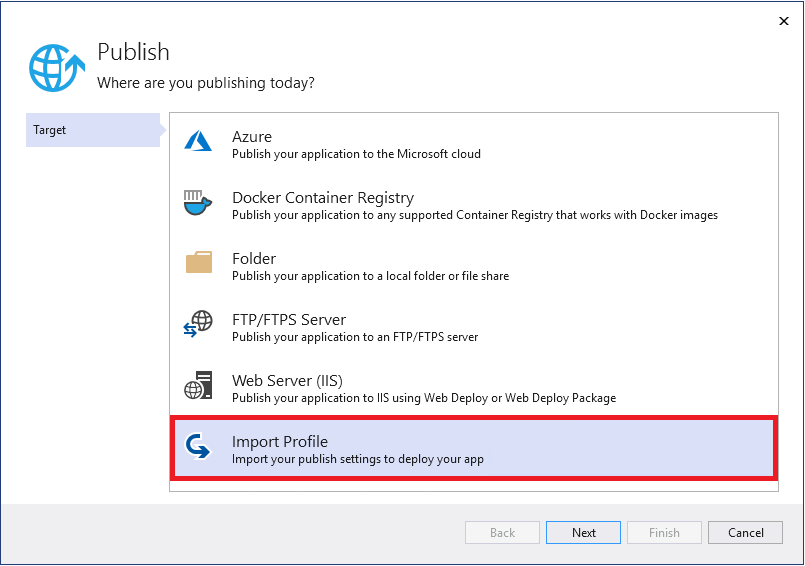
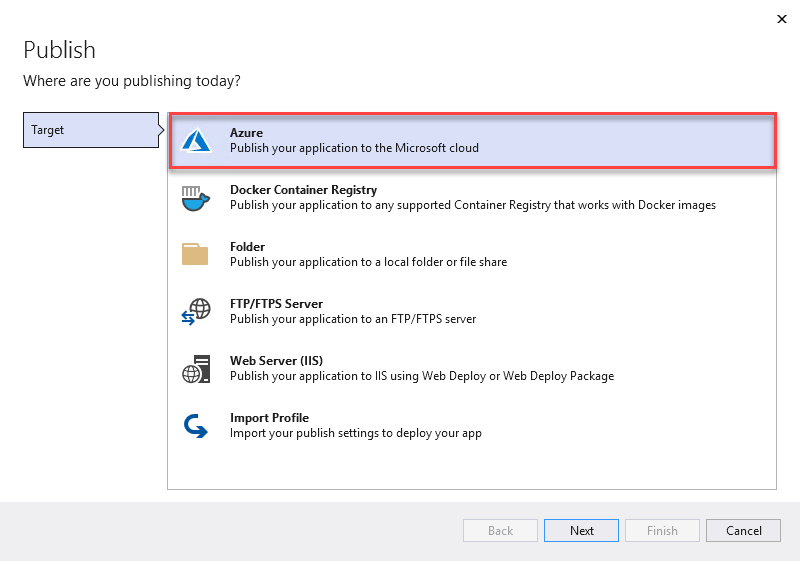
App Service deployment steps. Updated ARM template.

diff --git a/Hands-on lab/HOL step-by-step - Migrating Oracle to PostgreSQL.md b/Hands-on lab/HOL step-by-step - Migrating Oracle to PostgreSQL.md
@@ -947,52 +947,47 @@ With PostgreSQL, stored procedures cannot return output values without a cursor.
 
 ### Task 8: Deploy the application to Azure
 
-The built application will be deployed to IIS. The existing publishing profile should be used.
+As part of the PoC, the finished app will be hosted on Azure App Service. In this task, you will add a connection string to the App Service resource and use Visual Studio 2019 to complete the deployment.
 
-1. Devart's dotConnect has licensing agreements that must be met before deployment.
+1. In the Azure portal, navigate to your App Service instance. Navigate to **Configuration** below **Settings**.
 
-    - Select **License Information...** under **Tools > PostgreSQL**. The following wizard will open.
-    - Select **Fix**.
+2. Below **Connection strings**, select **+ New connection string**. In the **Add/Edit connection string** window, provide the following:
 
-    ![Screenshot showing the licensing wizard.](./media/licensing-wizard.PNG "Licensing wizard")
+    - **Name**: Use `PostgreSqlConnectionString`
+    - **Value**: Use the connection string from the `appsettings.json` file
+    - **Type**: Select `Custom` (with ASP.NET Core, it is not possible to use the `PostgreSQL` connection string type)
 
-2. Select **Next >** until you reach **Execute**. A **licenses.licx** file will be created, which contains information about **Devart.Data.PostgreSql**,**PgSqlConnection.dll**, and **Devart.Data.PostgreSql.dll**.
+    ![Adding a PostgreSQL connection string to the App Service configuration page.](./media/add-new-connection-string.png "PostgreSQL connection string in App Service")
 
-    ![Screenshot showing the execution licensing info.](./media/execute-licensing-info.PNG "Execute licensing info")
+3. Select **OK** and then select **Save**.
+   
+4. In Visual Studio's Solution Explorer, right-click the **NorthwindMVC** project (not the solution) and select **Publish...**.
 
-3. Select the option to **Rebuild Application** and then select **Finish**.
+5. The **Publish** window should open. Select **Azure**. Select **Next**.
 
-    ![Screenshot showing recompiling the build.](./media/recompile-build.PNG "Recompiling the build")
+    ![Screenshot showing the publishing window.](./media/publish-window.png "Selecting Azure in publishing window")
 
-4. If you relaunch the wizard, another fix will have to be done. **dotConnect** must know the applications and libraries reference its DLLs. Again, select **Fix**.
+6. Select **Azure App Service (Linux)**. Select **Next**.
 
-    ![Screenshot showing how to fix licensing.](./media/fix-2-licensing.PNG "Fix licensing")
+7. In the **Publish** window, select your **Subscription name**. Expand the correct resource group and select the App Service resource. Select **Next**.
 
-5. At the **Specify which executables are allowed to use the class library** dialog, select the **Add** button and then select *NorthwindMVC.dll* and *w3wp.exe* executable options. The IIS worker process will allow requests to be served. A new file titled licenses.config will be created with these details. Select **Next >**.
+    ![Selecting the correct App Service instance in the Visual Studio Publish window.](./media/app-service-in-publish-window.png "App Service instance in the Publish window")
 
-    ![Screenshot showing choosing the right executables.](./media/dll-and-exe.PNG "Specify which executables")
+8. Select **Publish (generates pubxml file)** for the **Deployment type** tab. Select **Finish**.
 
-6. Again, select **Execute** and rebuild the service.
+    ![Generating a publish profile for the Visual Studio App Service deployment.](./media/pubxml-deployment-type.png "Generating a publish profile")
 
-7. In Visual Studio's Solution Explorer, right-click the **NorthwindMVC** project (not the solution) and select **Publish...**.
+9. Select **Publish** next to the new publish profile.
 
-8. The **Publish** window should open. Select **Import Profile**. Select **Next**.
+10. First, your application will build. Then, all relevant files will be copied into a ZIP archive for deployment.
 
-    ![Screenshot showing the publishing window.](./media/publish-window.png "selecting import profile in publishing window")
-
-9. Select **Browse** to locate the **Publish settings file**. Select your publish profile from `C:\handsonlab\MCW-Migrating-Oracle-to-Azure-SQL-and-PostgreSQL\Hands-on lab\lab-files\starter-project`. Select **Finish**.
-
-    ![Screenshot showing publish settings window.](./media/publish-settings-file-dialog.PNG "publish settings window")
-
-10. Verify that your app is published using the **Web Deploy** method. Accept the remaining settings and select **Publish**.
-
-    ![Screenshot showing Azure deployment.](./media/azure-deploy.png "Azure deploy")
-
-11. First, your application will build. Then, all relevant files will be copied and organized on the host such that all relevant assets are served to the client.
-
-12. Once the build completes, navigate to your app's link. Test the web application.
+11. Once the build completes, navigate to your app's link. Test the web application.
 
     ![Screenshot showing The Northwind app deployed to Azure App Service.](./media/final-northwindapp.png "App deployed to Azure")
+
+    >**Note**: If you still see the default page display, try publishing again.
+
+    >**Note**: Feel free to remove the connection string from the `appsettings.json` file, as it is securely provided to the application through Azure App Service. This is usually done to avoid committing connection strings into version control.
 
 ## After the hands-on lab
 
